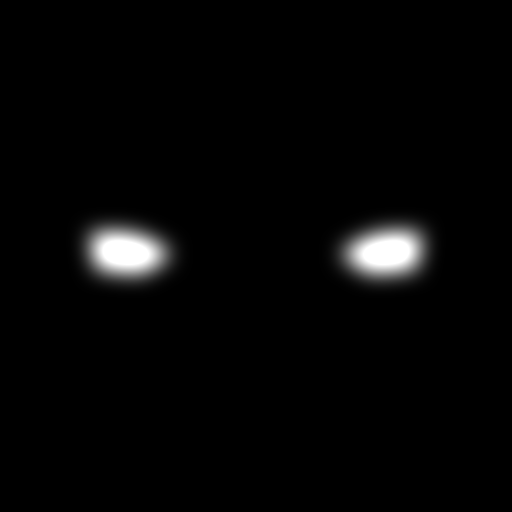
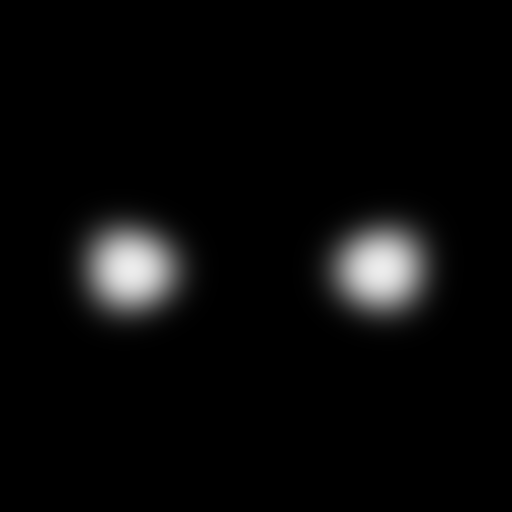
feat(guide): 튜토리얼 기본 블러셔 가이드를 볼 영역 전체로 확장
볼 위쪽 점 6개만 쓰는 기본 블러셔 가이드는 실제 바른 곳의 18~20%만 덮는다.
튜토리얼 가이드는 볼 영역 점 9개를 쓰고, 미리보기 블러셔 마스크는 지금 점을 유지한다.

Refs: S15P31A306-303

Changed region(s): [[0.625, 0.4375, 0.875, 0.6562], [0.125, 0.4375, 0.375, 0.6562]]

diff --git a/frontend/src/features/guide/default-guides.ts b/frontend/src/features/guide/default-guides.ts
@@ -75,13 +75,6 @@ function anchorTools(mesh: FaceMesh) {
 // 선이 흰자 위로 내려간다.
 const WING_LENGTH = 0.15; // 눈 너비 대비
 
-// 블러셔 영역: 볼 영역 위쪽 점과 50(280). 볼 아래쪽까지 칠하면 처져 보인다.
-// 미리보기 블러셔 마스크(픽스처 생성 스크립트)도 이 점을 쓴다
-export const BLUSH_POINTS = {
-  right: [123, 116, 117, 118, 101, 50],
-  left: [352, 345, 346, 347, 330, 280],
-};
-
 // 윗눈꺼풀 점 (안쪽 1/3 → 눈꼬리 직전). 눈꼬리 점은 아래로 꺾여 있어 건너뛴다
 const EYELINER = {
   right: {
@@ -272,13 +265,13 @@ export function buildDefaultGuideSet(mesh: FaceMesh, regions: RegionIndices): Gu
       ],
     },
     {
-      // 광대 위쪽 (BLUSH_POINTS)
+      // 볼 영역 전체. 볼 위쪽 점만 쓰면 실제 바른 곳을 일부만 덮는다
       stepId: "blush",
-      title: "블러셔: 광대 위쪽에 볼 앞에서 광대 쪽으로 둥글게 펴요",
+      title: "블러셔: 볼 앞에서 광대 쪽으로 둥글게 펴요",
       regions: ["rightCheek", "leftCheek"],
       guides: [
-        outline(BLUSH_POINTS.right),
-        outline(BLUSH_POINTS.left),
+        outline(regions.rightCheek.indices),
+        outline(regions.leftCheek.indices),
         point(between(101, 50)),
         arrow(between(101, 50), between(123, 117, 0.3)),
         point(between(330, 280)),

diff --git a/frontend/README.md b/frontend/README.md
@@ -141,7 +141,7 @@ npm run dev:https
 | 1    | 베이스     | 얼굴 윤곽 영역, 얼굴 가운데에서 볼·이마·턱 바깥쪽으로 화살표             | 없음           |
 | 2    | 쉐딩       | 옆광대 아래 ~ 턱선의 얼굴 외곽 띠, 바깥에서 안쪽으로 짧은 화살표         | 양쪽 볼        |
 | 3    | 하이라이트 | 미간 아래 콧대·눈 밑 앞쪽·턱 끝의 작은 영역                              | 양쪽 눈·입술   |
-| 4    | 블러셔     | 광대 위쪽 영역, 볼 앞에서 광대 쪽으로 화살표                             | 양쪽 볼        |
+| 4    | 블러셔     | 볼 영역 전체, 볼 앞에서 광대 쪽으로 화살표                               | 양쪽 볼        |
 | 5    | 눈썹       | 앞머리 → 꼬리 눈썹 결 붓 자국, 앞머리 시작점                             | 양쪽 눈썹      |
 | 6    | 아이섀도   | 윗눈꺼풀 ~ 쌍꺼풀 라인 높이(눈썹까지의 40%) 영역, 안쪽에서 바깥쪽 화살표 | 양쪽 눈        |
 | 7    | 아이라인   | 속눈썹 라인 경로, 꼬리는 눈매 방향으로 짧게, 시작점                      | 양쪽 눈        |

diff --git a/docs/requests/README.md b/docs/requests/README.md
@@ -23,7 +23,6 @@
 | [화장 종류 값 10개 반영](2026-10-28-hyeonsoo-jungyoon-makeup-values.md) | 2026-10-28 | 김현수 → 김정윤 | 요청 |
 | [API 명세 v2 도포 정보 대응 확인](2026-10-28-hyeonsoo-jungyoon-api-v2-application.md) | 2026-10-28 | 김현수 → 김정윤 | 요청 |
 | [BE 로그 JSON 형식과 작업 ID 남기기](2026-10-29-hyeongjun-jungyoon-be-logging.md) | 2026-10-29 | 박형준 → 김정윤 | 요청 |
-| [기본 블러셔 가이드 넓히기](2026-10-30-hyeonsoo-seoyun-default-blush-size.md) | 2026-10-30 | 김현수 → 한서윤 | 요청 |
 | [기본 아이섀도 가이드에 눈 아래 안내 추가](2026-11-01-hyeonsoo-seoyun-default-eyeshadow-under-eye.md) | 2026-11-01 | 김현수 → 한서윤 | 요청 |
 | [바르는 자리가 바뀌면 단계 나누기](2026-11-01-hyeonsoo-jungyoon-split-steps-by-application.md) | 2026-11-01 | 김현수 → 김정윤 | 요청 |
 | [마스카라 단계 영역 없음 반영](2026-11-01-hyeonsoo-seoyun-mascara-no-area.md) | 2026-11-01 | 김현수 → 한서윤 | 요청 |
